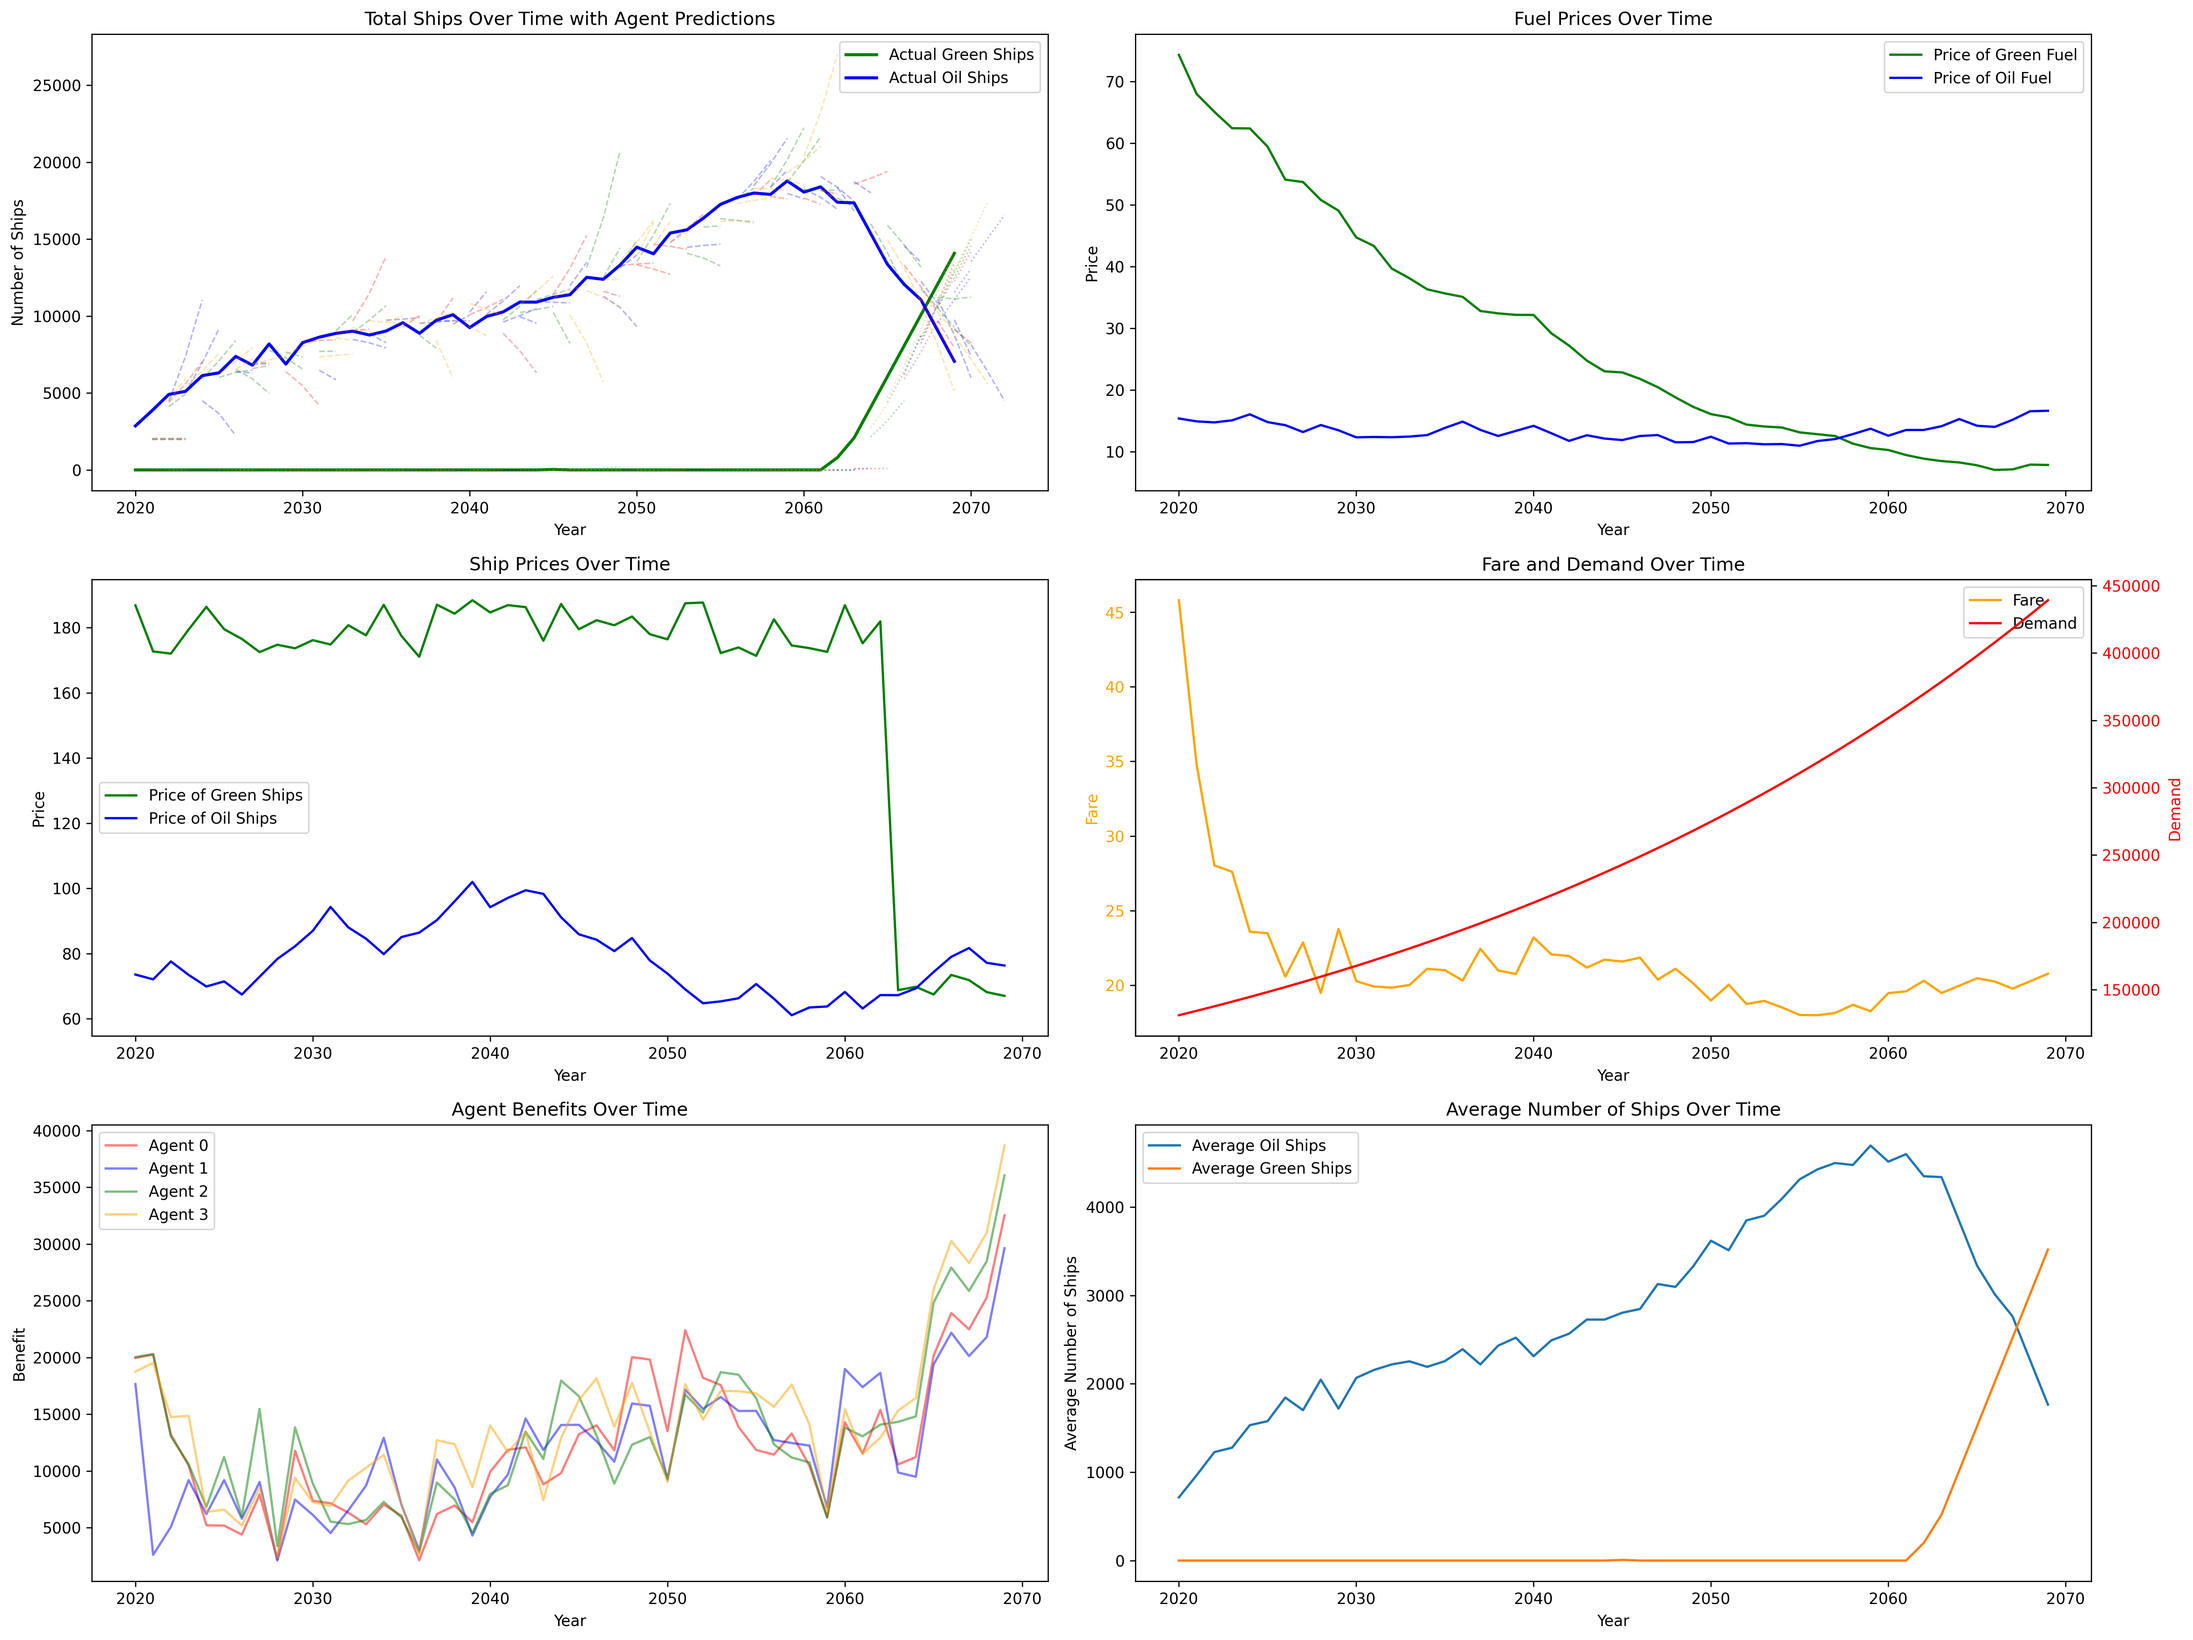
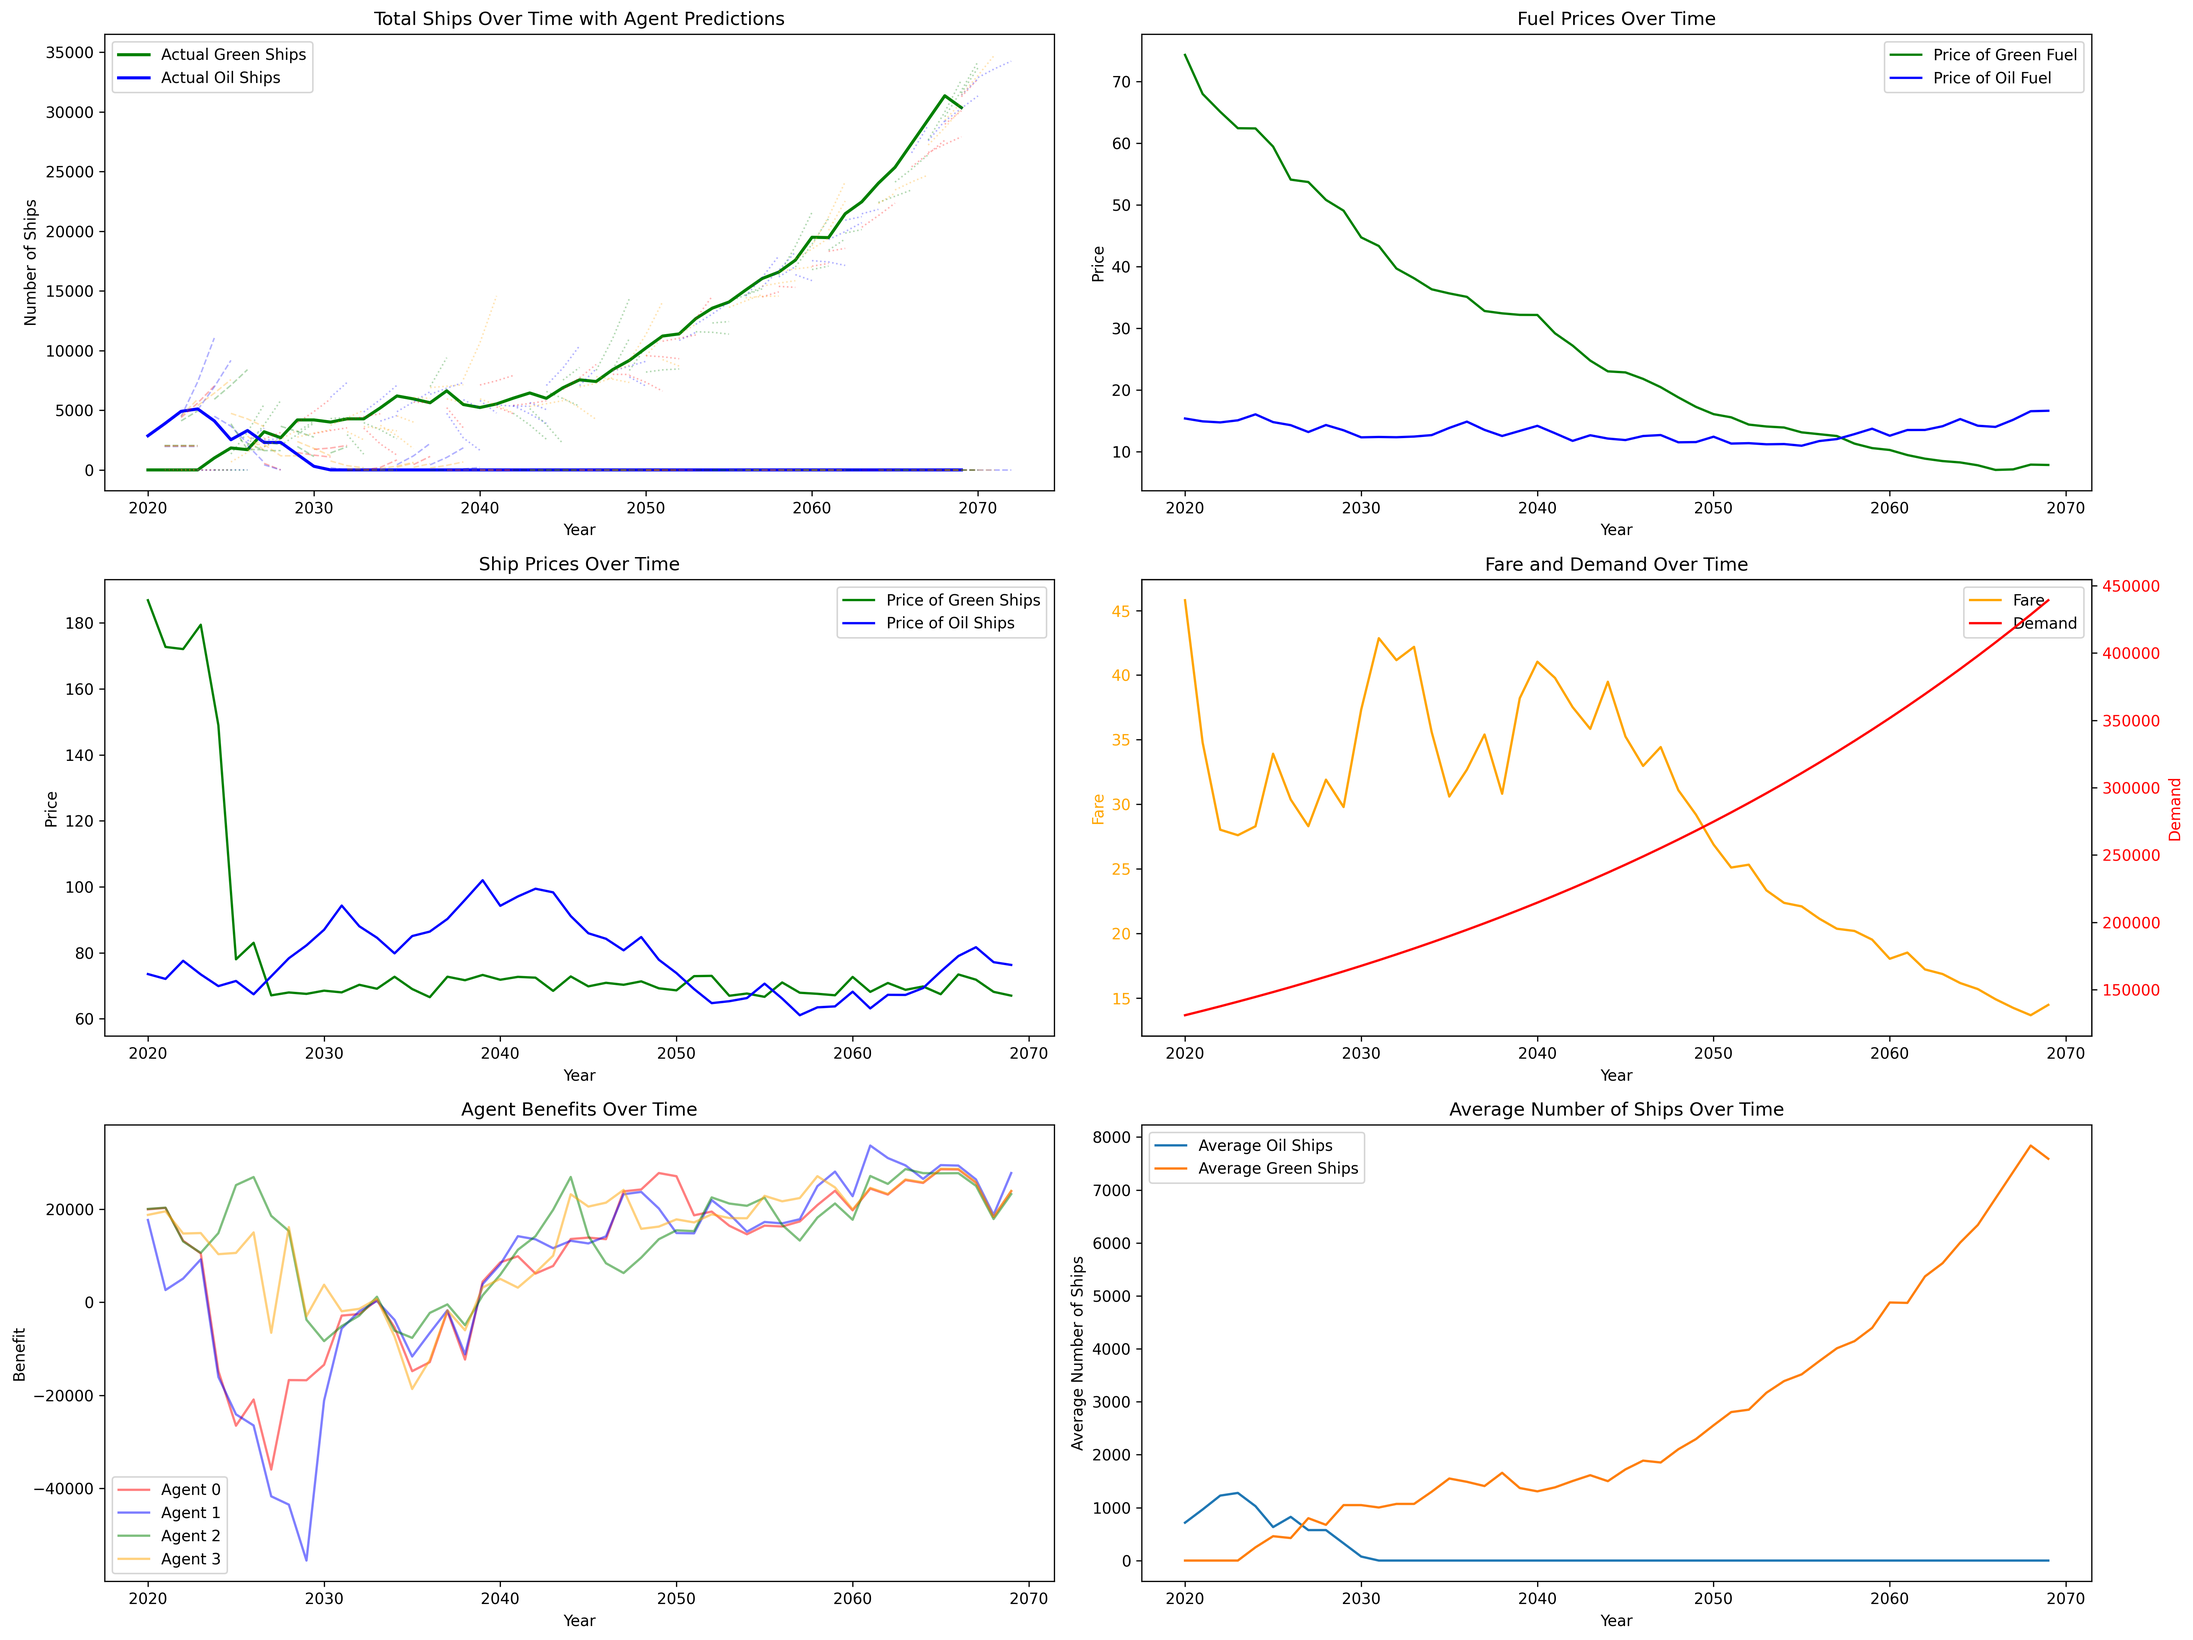
refactoring: integrate feebate decreasing logic into another script

diff --git a/base.py b/base.py
@@ -182,14 +182,14 @@ class Agent:
         penalties = np.zeros(future_years)
         rebates = np.zeros(future_years)
         for i in range(future_years):
-            penalty, rebate = self.predict_feebate(env, n_oils[i], n_greens[i], self_n_oil, self_n_green, env.feebate_rate * (1 - env.feebate_change_rate) ** (i + 1))
+            penalty, rebate = self.predict_feebate(env, n_oils[i], n_greens[i], self_n_oil, self_n_green)
             penalties[i] = penalty
             rebates[i] = rebate
         return penalties, rebates
 
 
 class Env:
-    def __init__(self, agents, initial_p_green, initial_p_oil, initial_pv_green, initial_pv_oil, initial_fare, initial_feebate_rate, feebate_change_rate):
+    def __init__(self, agents, initial_p_green, initial_p_oil, initial_pv_green, initial_pv_oil, initial_fare, initial_feebate_rate):
         self.agents = agents
         self.p_green = initial_p_green
         self.p_oil = initial_p_oil
@@ -201,7 +201,6 @@ class Env:
         self.total_n = self.total_n_green + self.total_n_oil
         self.demand = self.fare * self.total_n
         self.feebate_rate = initial_feebate_rate
-        self.feebate_change_rate = feebate_change_rate
         self.update()
 
     def cal_total_n_oil(self):
@@ -243,7 +242,6 @@ class Env:
         self.total_n = self.total_n_green + self.total_n_oil
         self.demand *= 1.025  # 毎年2.5%増加
         self.fare = self.demand / self.total_n
-        self.feebate_rate *= 1 - self.feebate_change_rate
         self.market()
         self.feebate()
 
@@ -260,16 +258,14 @@ class Simulation:
         self.initial_pv_green = 180  # 最初のgreen船の価格
         self.initial_pv_oil = 70  # 最初のoil船の価格
         self.initial_fare = 144.8  # 最初の運賃
-        self.initial_feebate_rate = 0.5  # フィーベイト率
-
-        self.FEEBATE_CHANGE_RATE = 0  # フィーベイト率の変化率
+        self.initial_feebate_rate = 0.1  # フィーベイト率
 
         # N個のエージェントを作成
         self.agents = [Agent(i) for i in range(self.N)]
 
         # 環境の作成
         self.env = Env(self.agents, self.initial_p_green, self.initial_p_oil, self.initial_pv_green,
-                       self.initial_pv_oil, self.initial_fare, self.initial_feebate_rate, self.FEEBATE_CHANGE_RATE)
+                       self.initial_pv_oil, self.initial_fare, self.initial_feebate_rate)
 
         # 結果を保存するリスト
         self.years = []

diff --git a/decreasing_feebaterate.py b/decreasing_feebaterate.py
@@ -1,17 +1,30 @@
+import linear_pred
 import base
-
-class CustomAgent(base.Agent):
-    pass
+import numpy as np
 
 
-class CustomEnv(base.Env):
+class CustomAgent(linear_pred.CustomAgent):
+    def predict_feebate_future(self, env, n_oils :np.ndarray, n_greens :np.ndarray, self_n_oil, self_n_green, future_years):
+        penalties = np.zeros(future_years)
+        rebates = np.zeros(future_years)
+        for i in range(future_years):
+            penalty, rebate = self.predict_feebate(env, n_oils[i], n_greens[i], self_n_oil, self_n_green, env.feebate_rate * (1 - FEEBATE_CHANGE_RATE) ** (i + 1))
+            penalties[i] = penalty
+            rebates[i] = rebate
+        return penalties, rebates
+
+
+class CustomEnv(linear_pred.CustomEnv):
     def update(self):
         super().update()
-        self.feebate_rate *= 1 - 0.5
+        self.feebate_rate *= 1 - FEEBATE_CHANGE_RATE
 
 
 if __name__ == '__main__':
+    INITIAL_FEEBATE_RATE = 0.1
+    FEEBATE_CHANGE_RATE = -0.05
     sim = base.Simulation(CustomAgent, CustomEnv)
+    sim.initial_feebate_rate = INITIAL_FEEBATE_RATE
     sim.run()
     sim.plot()
     sim.validate()
